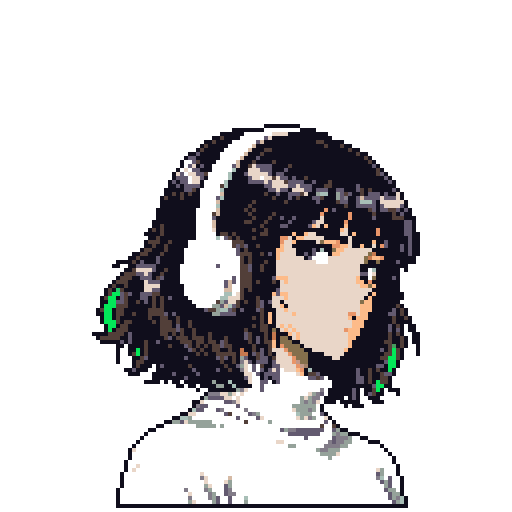
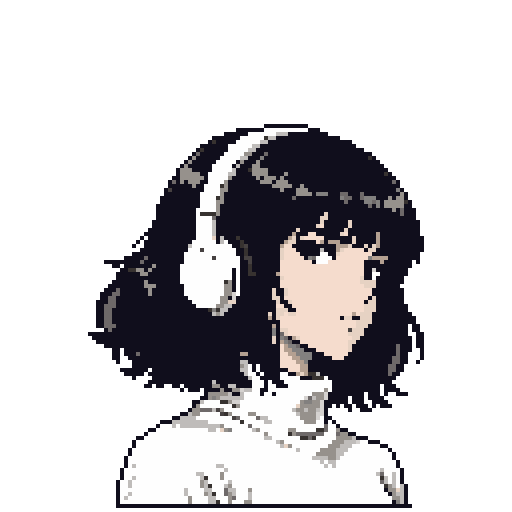
art(npcs): magenta key + cine palette remap (fix wash/spill)
Fix Kyle review of 128px pass: Teknium teal hair (not white), Don
Piedro cine Lab palette, strip green fringe from Nous Girl. Magenta
chroma key, no global brighten, clothing-only sat-preserving lift.

diff --git a/scripts/asset_px3_npcs.py b/scripts/asset_px3_npcs.py
@@ -1,13 +1,12 @@
 #!/usr/bin/env python3
 """launch-003 NPCs (Clawpocalypse cameo hosts, not playable).
 
-Green-keyed HD sources -> native 128 grid portrait + dialog bust + 2-frame idle
+Magenta-keyed HD sources -> native 128 grid portrait + dialog bust + idle
 -> nearest upscale -> assets/px3/npcs/, assets/npcs.json.
 
-Pets stay on the 32-grid in asset_px3. NPCs are higher-def so faces read.
-Primary reference: Clawpocalypse cinematic portraits under
-assets/cine/v3/portraits/<id>.png (Southpaw -> turbofit.png). Title cutouts are
-secondary. Not heroes/portraits or in-game sprites.
+Pets stay on the 32-grid. NPCs use cinematic portraits as primary refs
+(assets/cine/v3/portraits/; Southpaw -> turbofit). Title cutouts secondary.
+Magenta key avoids teal-hair damage; cine Lab palettes remap for fidelity.
 """
 from __future__ import annotations
 import hashlib, json
@@ -19,12 +18,21 @@ from asset_build import SRC, A
 from asset_px3 import to_native_mode
 
 NPC_N = 128
-NPC_FACTOR = 4           # 128*4 = 512 display
+NPC_FACTOR = 4
 PORT_COLORS = 32
 BUST_COLORS = 28
-PORT_H = 120             # nearly fills 128 canvas
-BUST_H = 96              # dialog bust
+PORT_H = 120
+BUST_H = 96
 IDLE_H = 72
+OUTLINE = (16, 14, 28)
+
+# Lab k-means palettes sampled from Clawpocalypse cine/v3 portraits (not generations).
+CINE_PALETTES = {
+  "don_piedro": [[16,14,28],[205,161,78],[247,245,243],[27,63,124],[188,184,184],[33,21,22],[51,33,20],[243,219,157],[166,128,60],[20,50,140],[180,190,200],[200,20,30],[240,220,180],[90,55,30],[112,76,45],[64,62,63],[161,11,22],[130,126,125],[94,92,95],[66,42,24],[151,112,62],[215,203,179],[9,35,77],[43,26,19],[7,25,55]],
+  "nous_girl": [[16,14,28],[252,251,247],[93,91,90],[164,161,159],[130,128,127],[213,210,208],[191,188,186],[254,254,254],[40,35,35],[70,65,65],[110,105,105],[230,210,195],[245,220,205],[20,18,18],[55,50,48],[150,145,140],[180,160,145]],
+  "teknium": [[16,14,28],[67,169,123],[5,85,48],[247,191,139],[221,12,35],[117,226,166],[11,78,60],[23,115,55],[40,160,130],[20,120,100],[80,200,160],[10,90,70],[255,255,255],[240,240,240],[30,30,30],[85,57,43],[200,30,40],[180,160,140],[50,140,100]],
+  "southpaw": [[16,14,28],[92,22,22],[197,122,74],[155,91,56],[110,25,22],[193,105,56],[31,30,34],[66,62,65],[65,16,17],[220,140,90],[40,38,42],[120,120,130],[250,220,190],[180,60,40],[90,88,95],[140,50,40]],
+}
 
 NPCS = [
   {"id": "npc.don_piedro", "name": "Don Piedro", "role": "Cosmetics shopkeeper. Carries a big spoon and is Hermes' #1 fan.", "ui_surface": "shop",
@@ -43,18 +51,16 @@ NPCS = [
 
 def sha(p): return hashlib.sha256(Path(p).read_bytes()).hexdigest()
 
-def key_chroma_green(path: Path) -> Image.Image:
-    """Key flat chroma-green bg via edge flood so teal/seafoam hair (Teknium) survives."""
+def key_magenta(path: Path) -> Image.Image:
+    """Edge-flood magenta chroma key + despill (clamp R/B toward G on fringe)."""
     im = np.asarray(Image.open(path).convert("RGB")).astype(np.float32)
     r, g, b = im[..., 0], im[..., 1], im[..., 2]
-    # pure screen green: strong G dominance + high green
-    is_bg = (g > 80) & ((g - np.maximum(r, b)) > 35) & (g > (r + b) * 0.55)
+    # magenta dominance: R and B high, G low
+    is_bg = (r > 120) & (b > 80) & (g < 140) & ((r + b) * 0.5 - g > 45) & (np.minimum(r, b) > g + 15)
     h, w = is_bg.shape
     edge = np.zeros_like(is_bg, bool)
     edge[0, :] = edge[-1, :] = edge[:, 0] = edge[:, -1] = True
-    seed = is_bg & edge
-    # dilate flood through connected bg
-    mask = seed.copy()
+    mask = is_bg & edge
     struct = ndimage.generate_binary_structure(2, 1)
     for _ in range(max(h, w)):
         grown = ndimage.binary_dilation(mask, structure=struct) & is_bg
@@ -62,13 +68,16 @@ def key_chroma_green(path: Path) -> Image.Image:
             break
         mask = grown
     alpha = np.where(mask, 0.0, 1.0).astype(np.float32)
-    # despill residual green fringe on opaque edge
-    fringe = (~mask) & ndimage.binary_dilation(mask, structure=struct)
-    g2 = g.copy()
-    m = np.maximum(r, b)
-    g2[fringe] = np.minimum(g[fringe], m[fringe] + 8)
-    out = np.dstack([r, g2, b, alpha * 255]).astype(np.uint8)
-    # drop tiny detached specks
+    # magenta despill on fringe: pull R/B down toward G
+    fringe = (~mask) & ndimage.binary_dilation(mask, structure=struct, iterations=2)
+    r2, g2, b2 = r.copy(), g.copy(), b.copy()
+    spill = fringe & ((r + b) * 0.5 > g + 20)
+    r2[spill] = np.minimum(r[spill], g[spill] + 12)
+    b2[spill] = np.minimum(b[spill], g[spill] + 12)
+    # also clamp any residual pure-green fringe (from older gens)
+    gspill = (~mask) & (g - np.maximum(r, b) > 25)
+    g2[gspill] = np.minimum(g[gspill], np.maximum(r[gspill], b[gspill]) + 6)
+    out = np.dstack([r2, g2, b2, alpha * 255]).astype(np.uint8)
     lab, n = ndimage.label(out[..., 3] > 128)
     if n:
         sizes = ndimage.sum(np.ones_like(lab), lab, range(1, n + 1))
@@ -76,22 +85,57 @@ def key_chroma_green(path: Path) -> Image.Image:
         out[..., 3] = np.where(keep, out[..., 3], 0)
     return Image.fromarray(out, "RGBA")
 
-def brighten_darks(keyed: Image.Image, floor: float = 55.0, lift: float = 48.0) -> Image.Image:
-    """Lift dark outfit pixels (Teknium green coat, Southpaw black vest) so seams/studs read."""
+def strip_key_greens(keyed: Image.Image, allow_teal: bool = False) -> Image.Image:
+    """Remove chroma-green / key-fringe greens. If allow_teal, keep cyan-teal hair greens."""
+    a = np.asarray(keyed).copy()
+    rgb = a[..., :3].astype(np.float32)
+    r, g, b = rgb[..., 0], rgb[..., 1], rgb[..., 2]
+    opaque = a[..., 3] > 128
+    if allow_teal:
+        # kill lime/chroma greens that are not teal (teal: b elevated vs r)
+        bad = opaque & (g - np.maximum(r, b) > 35) & ~((b > r + 15) & (b > 50))
+    else:
+        bad = opaque & (g - np.maximum(r, b) > 12)
+    if bad.any():
+        # replace with luminance-matched grey-brown from local max(r,b)
+        mb = np.maximum(r, b)
+        rgb[..., 0] = np.where(bad, mb * 0.85, r)
+        rgb[..., 1] = np.where(bad, mb * 0.75, g)
+        rgb[..., 2] = np.where(bad, mb * 0.7, b)
+    a[..., :3] = np.clip(rgb, 0, 255).astype(np.uint8)
+    return Image.fromarray(a, "RGBA")
+
+def clothing_lift_preserve_sat(keyed: Image.Image, lum_ceil: float = 70.0, lift: float = 28.0) -> Image.Image:
+    """Mild value lift on dark opaque pixels only; preserve hue by scaling channels together."""
     a = np.asarray(keyed).copy()
     rgb = a[..., :3].astype(np.float32)
     lum = rgb.mean(-1)
     opaque = a[..., 3] > 128
-    # skip near-black outline
-    dark = opaque & (lum < 110) & (lum > 12)
-    # stronger lift the darker it is
-    t = np.clip((110 - lum) / 110.0, 0, 1)
-    add = (lift * t)[..., None]
-    rgb[dark] = np.clip(rgb[dark] + add[dark], 0, 255)
-    # also nudge very dark toward a readable charcoal rather than crushed black
-    crush = opaque & (lum <= 35) & (lum > 8)
-    rgb[crush] = np.clip(rgb[crush] * 1.35 + 18, 0, 255)
+    # dark clothing-ish, skip near-black outline
+    dark = opaque & (lum < lum_ceil) & (lum > 18)
+    # skip highly saturated teal/cyan hair (don't wash Teknium hair)
+    sat = (rgb.max(-1) - rgb.min(-1)) / np.maximum(rgb.max(-1), 1)
+    hairish = (rgb[..., 1] > rgb[..., 0] + 25) & (rgb[..., 2] > rgb[..., 0] + 10) & (sat > 0.25)
+    dark &= ~hairish
+    if dark.any():
+        factor = 1.0 + (lift / 255.0) * ((lum_ceil - lum) / lum_ceil)
+        rgb[dark] = np.clip(rgb[dark] * factor[dark, None], 0, 255)
     a[..., :3] = rgb.astype(np.uint8)
+    return Image.fromarray(a, "RGBA")
+
+def remap_to_palette(native: Image.Image, palette: list[list[int]]) -> Image.Image:
+    """Map every opaque native pixel to nearest cine palette colour (RGB Euclidean)."""
+    a = np.asarray(native).copy()
+    pal = np.asarray(palette, dtype=np.float32)
+    m = a[..., 3] > 0
+    if not m.any():
+        return native
+    pix = a[m, :3].astype(np.float32)
+    d = ((pix[:, None, :] - pal[None, :, :]) ** 2).sum(-1)
+    a[m, :3] = pal[d.argmin(1)].astype(np.uint8)
+    # force outline colour on silhouette edge
+    edge = m & ~ndimage.binary_erosion(m, structure=np.array([[0, 1, 0], [1, 1, 1], [0, 1, 0]]))
+    a[edge, :3] = OUTLINE
     return Image.fromarray(a, "RGBA")
 
 def place_npc(native, x, y, canvas=NPC_N):
@@ -112,21 +156,33 @@ def fit_native(keyed, colors, target_h, max_side=NPC_N - 2):
         n = to_native_mode(keyed, colors, height=max_side)
     return n
 
+def process_npc(key: str, keyed: Image.Image, colors: int, height: int) -> Image.Image:
+    allow_teal = key == "teknium"
+    k = strip_key_greens(keyed, allow_teal=allow_teal)
+    if key in ("teknium", "southpaw"):
+        k = clothing_lift_preserve_sat(k)
+    n = fit_native(k, colors, height)
+    n = remap_to_palette(n, CINE_PALETTES[key])
+    # second green strip after remap for non-teknium
+    if key != "teknium":
+        n = strip_key_greens(n, allow_teal=False)
+    return n
+
 def main():
     out = A / "px3" / "npcs"; out.mkdir(parents=True, exist_ok=True); entries = []
     for e in NPCS:
         key = e["id"].split(".")[1]
-        src = SRC / f"px3_npc_{key}_v4.jpg"
-        k = brighten_darks(key_chroma_green(src))
-        port = fit_native(k, PORT_COLORS, PORT_H)
+        src = SRC / f"px3_npc_{key}_v5.jpg"
+        keyed = key_magenta(src)
+        port = process_npc(key, keyed, PORT_COLORS, PORT_H)
         pcv = place_npc(port, (NPC_N - port.width) // 2, NPC_N - 1 - port.height)
         pp = out / f"{key}_portrait.png"; up_npc(pcv).save(pp, optimize=True)
 
-        bust = fit_native(k, BUST_COLORS, BUST_H)
+        bust = process_npc(key, keyed, BUST_COLORS, BUST_H)
         bcv = place_npc(bust, (NPC_N - bust.width) // 2, NPC_N - 1 - bust.height)
         bp = out / f"{key}_dialog.png"; up_npc(bcv).save(bp, optimize=True)
 
-        idle = fit_native(k, BUST_COLORS, IDLE_H)
+        idle = process_npc(key, keyed, BUST_COLORS, IDLE_H)
         frames = []
         for f, dy in enumerate((0, 1)):
             cv = place_npc(idle, (NPC_N - idle.width) // 2, NPC_N - 6 - idle.height + dy)
@@ -141,11 +197,10 @@ def main():
             "idle": {"frames": frames, "frame_ms": 500},
             "flavor_lines": e["lines"],
             "source": f"source/{src.name}",
-            "reference": f"Clawpocalypse cinematic portrait assets/cine/v3/portraits/{e['claw_hero']}.png (primary); title cutout assets/cine/title/{e['claw_hero']}.png (secondary)",
+            "reference": f"Clawpocalypse cinematic portrait assets/cine/v3/portraits/{e['claw_hero']}.png (primary); title cutout secondary; magenta key + cine Lab palette remap",
             "rights_note": "Cameo of Kyle's Clawpocalypse hero characters, added at his request. Fictional game characters; the lines are playful in-game flavor and make no claims about any real person.",
         })
     (A / "npcs.json").write_text(json.dumps({"schema": "hermagotchi-npcs-v1", "asset_pack_id": "launch-003", "npcs": entries}, indent=2) + "\n")
-
     cell = NPC_N * NPC_FACTOR
     sheet = Image.new("RGB", (4 * cell, cell + cell // 2), (236, 232, 245))
     for i, en in enumerate(entries):

diff --git a/tests/test_npcs_assets.py b/tests/test_npcs_assets.py
@@ -40,3 +40,25 @@ def test_npc_pngs_match_manifest():
             import numpy as np
             alphas = set(np.asarray(im)[..., 3].ravel().tolist())
             assert alphas <= {0, 255}, (rel, alphas)
+
+def test_npc_no_green_fringe_on_nous_and_don():
+    import numpy as np
+    from scipy import ndimage
+    for key in ("nous_girl", "don_piedro", "southpaw"):
+        im = np.asarray(Image.open(A / f"px3/npcs/{key}_portrait.png"))
+        m = im[..., 3] > 128
+        edge = m & ~ndimage.binary_erosion(m, iterations=2)
+        gdom = (im[..., 1].astype(int) - np.maximum(im[..., 0], im[..., 2])) > 25
+        assert (edge & gdom).sum() == 0, key
+
+def test_teknium_hair_has_teal_not_white_dominant():
+    import numpy as np
+    im = np.asarray(Image.open(A / "px3/npcs/teknium_portrait.png"))
+    # top-center crop ~ hair
+    crop = im[40:220, 160:360]
+    m = crop[..., 3] > 128
+    rgb = crop[m, :3].astype(float)
+    teal = (rgb[:, 1] > 90) & (rgb[:, 2] > 70) & (rgb[:, 0] < 160) & ((rgb[:, 1] + rgb[:, 2]) / 2 > rgb[:, 0] + 20)
+    white = rgb.min(1) > 220
+    assert teal.mean() > 0.08, teal.mean()
+    assert teal.mean() > white.mean() * 0.5

diff --git a/assets/PROVENANCE.md b/assets/PROVENANCE.md
@@ -53,15 +53,15 @@ Kyle asked: "i want them to be more pixelated. regenerate them entirely please i
 | px3/items/binary_crown, propeller_beanie, syntax_wizard, pixel_shades, gold_monocle, circuit_wings, tiny_jetpack, ember_halo, data_orbit, cozy_scarf, heart_bubble, plush_cushion, royal_ribbon | source/px3_item_{crown,beanie,wizard,shades,monocle,wings,jetpack,aura_flame,aura_orbit,scarf,emote,cushion,ribbon}_v1.jpg |
 | px3/palettes, px3/markings, px3/overlays | procedural |
 
-### NPCs (launch-003) — HD cinematic pass, 2026-11-05
-Kyle asked for higher-definition NPCs so faces read, pointing at cinematic portraits. Regenerated with `GenerateImage` using **Clawpocalypse cinematic portraits** as primary refs (`assets/cine/v3/portraits/{don_piedro,nous_girl,teknium,turbofit}.png`, ~512px tall) and title cutouts as secondary. Still **not** `assets/heroes/portraits/` and **not** in-game hero sprites. Southpaw uses `turbofit.png`. Pipeline: flat green bg, edge-flood chroma-green key (protects Teknium teal hair), dark-outfit brighten, palette-first mode downscale (~32 colours), binary alpha, nearest upscale. NPC native grid **128×128** (factor 4 → 512 display); pets remain 32×32. Emits portrait, dialog bust, and 2-frame idle. 4 generations this pass (`*_v4.jpg`). Cameos are fictional game characters; flavor lines make no claims about any real person.
+### NPCs (launch-003) — palette/key fix, 2026-11-05
+Kyle reviewed the prior 128px pass: Teknium hair washed white, Don Piedro palette muddy, green in Nous Girl hair. Fixes: regenerate on **magenta** chroma key (teal hair safe), drop global brighten (clothing-only sat-preserving lift for dark kits), Lab k-means palettes sampled from **cine/v3 portraits** remapped after quantize, strip chroma-green fringe (teal allowed only for Teknium). Still cine portraits primary, title secondary; not heroes/portraits or sprites. Native **128×128** factor 4. 4 generations (`*_v5.jpg`).
 
 | Output | Source | Reference (primary) |
 |---|---|---|
-| px3/npcs/don_piedro_{portrait,dialog,idle_0,idle_1}.png | source/px3_npc_don_piedro_v4.jpg | cine/v3/portraits/don_piedro.png |
-| px3/npcs/nous_girl_* | source/px3_npc_nous_girl_v4.jpg | cine/v3/portraits/nous_girl.png |
-| px3/npcs/teknium_* | source/px3_npc_teknium_v4.jpg | cine/v3/portraits/teknium.png |
-| px3/npcs/southpaw_* | source/px3_npc_southpaw_v4.jpg | cine/v3/portraits/turbofit.png (Southpaw) |
+| px3/npcs/don_piedro_{portrait,dialog,idle_*} | source/px3_npc_don_piedro_v5.jpg | cine/v3/portraits/don_piedro.png |
+| px3/npcs/nous_girl_* | source/px3_npc_nous_girl_v5.jpg | cine/v3/portraits/nous_girl.png |
+| px3/npcs/teknium_* | source/px3_npc_teknium_v5.jpg | cine/v3/portraits/teknium.png |
+| px3/npcs/southpaw_* | source/px3_npc_southpaw_v5.jpg | cine/v3/portraits/turbofit.png |
 
 
 ### launch-003 extra species (7), 2026-11-05

diff --git a/docs/ART_RESEARCH.md b/docs/ART_RESEARCH.md
@@ -32,4 +32,4 @@ Short notes on the practices this pipeline uses and why.
 - **Safe region.** At a factor of 16, the contract's safe box (x 65..447, y 75..450) works out to native columns and rows 5..27. Bodies are 22–23 native px tall, so we drew larger cosmetics small and enlarge them at render time with the manifest `scale` field (for example auras at ×1.25).
 - **Hand cleanup.** A tiny per-species fixup table restores eye pixels lost at 32px: Patchfox's eye dots and Nullgeist's magenta X eye. Hand-fixing pixels like this is normal pixel-art practice.
 - **Markings.** These are drawn sparsely (2–8 native px) so they don't turn into noise.
-- **NPCs.** Regenerated against Clawpocalypse **cinematic portraits** (`assets/cine/v3/portraits/…`, title cutouts secondary) — not hero sprites or select portraits. Edge-flood green key, dark-outfit brighten, palette-first mode downscale on a **128×128** native grid (factor 4 → 512), ~32 colours, portrait + dialog bust + 2-frame idle. Pets stay on the 32 grid.
+- **NPCs.** Cinematic portraits primary (`assets/cine/v3/portraits/…`). **Magenta** edge-flood key (teal hair safe), clothing-only sat-preserving lift (no global wash), Lab k-means palette remap from the cine refs, chroma-green fringe strip. Native **128×128** (factor 4), ~32 colours, portrait + dialog bust + idle. Pets stay 32.
